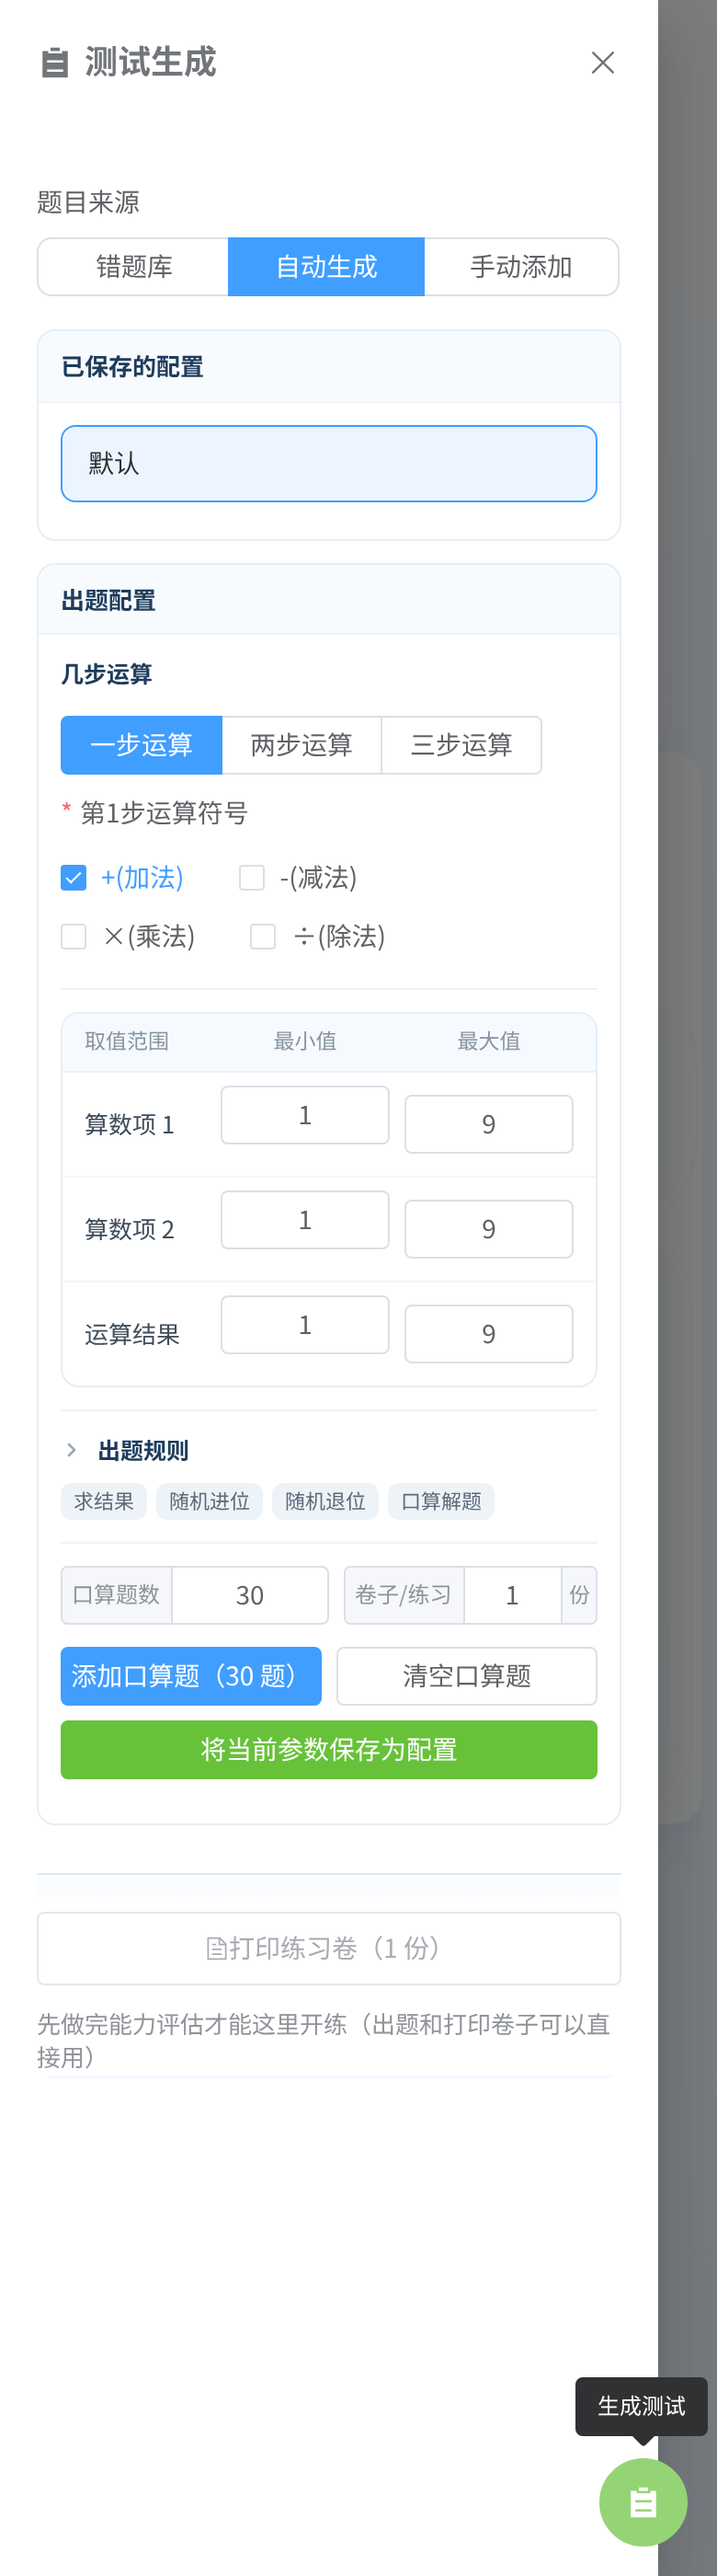
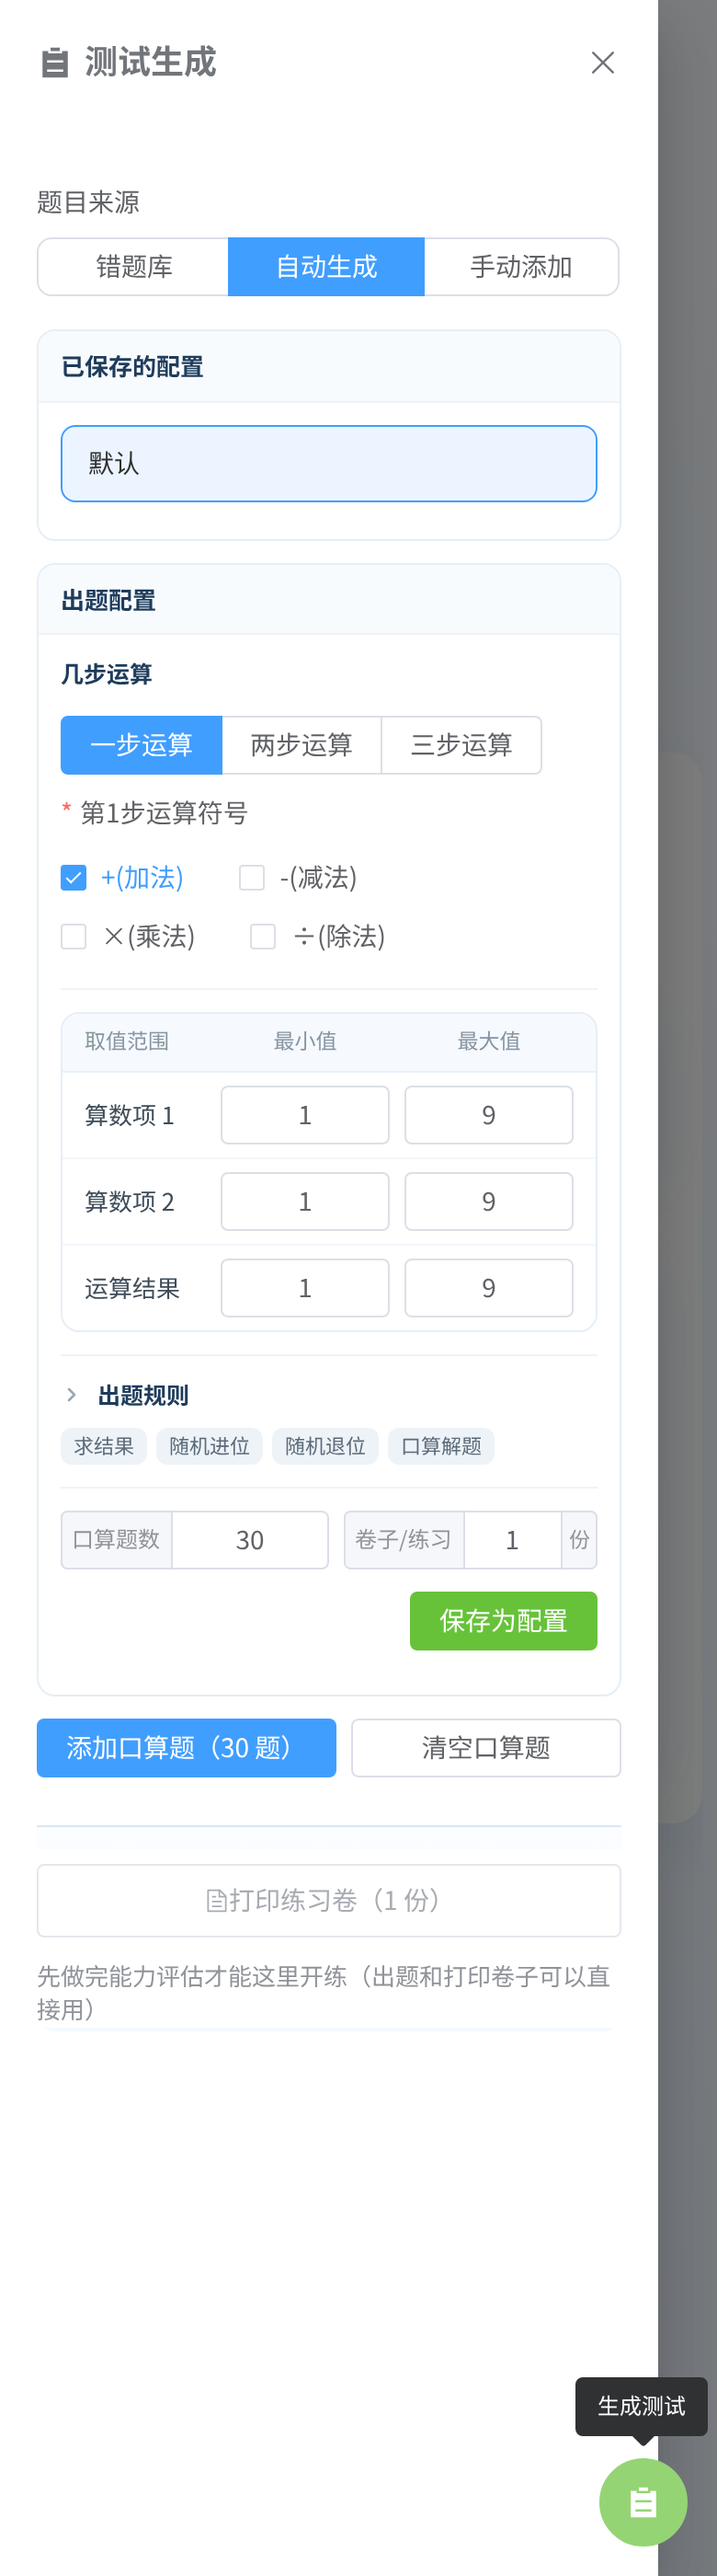
fix(generate): 修取值范围行内错位；添加/清空口算题移出配置区块
1) 取值范围错行（dr 反馈"最大最小值有错行"）
根因：`.block-card__body :deep(.el-form-item)` 的 margin-bottom:10px 命中表格单元格，
而 `:last-child` 那条又把每行最后一个单元格清零 → 同一行「最小值」比「最大值」高 5px。
改为只作用于卡片直接子项 `.agf-section > :deep(.el-form-item)`；
实测两输入框顶边一致（590/590、637/637），行名与输入框垂直居中对齐。

2) 动作分层
- 「添加口算题（N 题）」「清空口算题」移出「出题配置」卡片，作为配置完成后的下一步，
  放在卡片下方独立一行；三个分页位置一致（手动添加页同步移出，错题库本来就在外面）
- 「将当前参数保存为配置」→「保存为配置」，作为配置自身的保存动作留在出题配置卡内、右下角

实测 390：取值范围四行两列输入框严格对齐；卡片内只剩「保存为配置」；
卡片外是「添加口算题（30 题）/ 清空口算题」；无溢出无报错；36 文件 / 376 用例通过

diff --git a/src/components/generate/AutoGenerateFormulas.vue b/src/components/generate/AutoGenerateFormulas.vue
@@ -141,18 +141,21 @@
             </ElCol>
           </ElRow>
 
-          <div class="actions-row">
-            <ElButton type="primary" class="actions-row__btn" @click="append">
-              添加口算题（{{ pendingCount }} 题）
-            </ElButton>
-            <ElButton class="actions-row__btn" @click="clear">清空口算题</ElButton>
-            <el-button type="success" class="actions-row__btn actions-row__btn--wide" @click="addConfiguration">
-              将当前参数保存为配置
-            </el-button>
+          <!-- 「保存」是配置自身的动作，留在出题配置区块内 -->
+          <div class="save-row">
+            <el-button type="success" class="save-row__btn" @click="addConfiguration">保存为配置</el-button>
           </div>
         </div>
       </div>
     </section>
+
+    <!-- 配置完成后的下一步：把题目加入卷子（与「已保存的配置」平级的独立操作条） -->
+    <div class="add-row">
+      <ElButton type="primary" class="add-row__btn" @click="append">
+        添加口算题（{{ pendingCount }} 题）
+      </ElButton>
+      <ElButton class="add-row__btn" @click="clear">清空口算题</ElButton>
+    </div>
 
     <!-- ════════════════════════════════════════════════════════════════
          2026-11-26 隐藏（观察期一个月，2026-12-30 无回滚需求即整块删除）
@@ -570,11 +573,12 @@ const addConfiguration = () => {
 }
 
 /* ── 数字范围表格：算数项 1/2… 与运算结果共用一列表头 ── */
-.block-card__body :deep(.el-form-item) {
+/* 只给「卡片里的直接表单项」加行距，不要波及表格单元格（否则同一行两个输入框会错位） */
+.agf-section > :deep(.el-form-item) {
   margin-bottom: 10px;
 }
 
-.block-card__body :deep(.el-form-item:last-child) {
+.agf-section > :deep(.el-form-item:last-child) {
   margin-bottom: 0;
 }
 
@@ -903,6 +907,34 @@ const addConfiguration = () => {
   gap: 8px;
   width: 100%;
   margin-top: 0;
+}
+
+.save-row {
+  display: flex;
+  justify-content: flex-end;
+  margin-top: 12px;
+}
+
+.save-row__btn {
+  margin-left: 0;
+}
+
+/* 卡片外的下一步操作：与上方配置区分开 */
+.add-row {
+  display: flex;
+  flex-wrap: wrap;
+  gap: 8px;
+}
+
+.add-row__btn {
+  flex: 1 1 0;
+  margin-left: 0;
+}
+
+@media (max-width: 768px) {
+  .add-row__btn {
+    flex: 1 1 0;
+  }
 }
 
 .actions-row__btn {

diff --git a/src/components/generate/CustomFormulas.vue b/src/components/generate/CustomFormulas.vue
@@ -21,13 +21,14 @@
             </el-icon>
           </div>
         </ElFormItem>
-
-        <div class="cmf-actions">
-          <el-button type="primary" @click="append">添加口算题（{{ validCount }} 题）</el-button>
-          <el-button @click="clear">清空口算题</el-button>
-        </div>
       </div>
     </section>
+
+    <!-- 配置完成后的下一步：加入卷子 -->
+    <div class="add-row">
+      <el-button type="primary" class="add-row__btn" @click="append">添加口算题（{{ validCount }} 题）</el-button>
+      <el-button class="add-row__btn" @click="clear">清空口算题</el-button>
+    </div>
   </div>
 </template>
 
@@ -160,10 +161,14 @@ i {
   gap: 4px;
 }
 
-.cmf-actions {
+.add-row {
   display: flex;
   flex-wrap: wrap;
   gap: 8px;
-  margin-top: 12px;
+}
+
+.add-row__btn {
+  flex: 1 1 0;
+  margin-left: 0;
 }
 </style>
